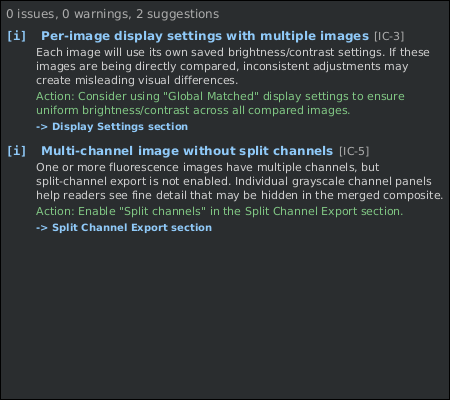
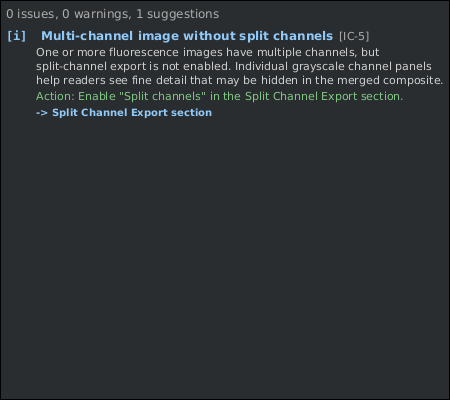
QuIET chapter: 1.3.1, review fixes, new Publication Advice screenshot
Version 1.3.1. Card names match the wizard; "QuIET renders" each panel; the
script exceptions are Panel / Montage, (Active Overlay) and Add to Workflow
(not "Preferences"); Copy Script also needs Advanced mode; the SVG cap counts
detections; the result folder opens by itself; export_info.txt contents as
written; the script rereads saved display settings; per-image display in
What to notice; QUAREP-LiMi checklist paper cited. With one image ticked the
advice is now one suggestion (IC-5): 1.3.1 recomputes it as the selection
changes, so the screenshot is retaken. Going-further bullet rewritten without
the unreleased Fiber Analysis maps.

Claude-Session: https://claude.ai/code/session_011vsVaz6bucybYzteLzjXpH

Changed region(s): [[0.0622, 0.06, 0.9956, 0.33], [0.0622, 0.36, 0.9956, 0.6], [0.0, 0.36, 0.0622, 0.39]]

diff --git a/docs/01-quiet-image-export.md b/docs/01-quiet-image-export.md
@@ -12,7 +12,7 @@ title: QuIET - QuPath Image Export Toolkit
 | | |
 |---|---|
 | **Repository** | [uw-loci/qupath-extension-image-export-toolkit](https://github.com/uw-loci/qupath-extension-image-export-toolkit) |
-| **Extension version** | 1.3.0 |
+| **Extension version** | 1.3.1 |
 | **License** | Apache-2.0 |
 | **Requires** | QuPath 0.7.0+, Java 21+ |
 | **Where to find it** | `Extensions > QuIET > Image Export...` and `Extensions > QuIET > Panel / Montage Export...` |
@@ -44,33 +44,42 @@ category, configure it, pick your images, and export.
 |---|---|---|
 | **Rendered** | The image as displayed, with overlays, scale bar, panel labels | Figures and collaborator review |
 | **Label / Mask** | Per-class segmentation masks | ML training targets, QC |
-| **Raw image data** | Pixel data at any downsample | Handing data to another tool |
-| **Tiled export (ML)** | Image + label tile pairs | Deep-learning frameworks |
-| **Object crops** | One small image per object | Cell-type classifier training |
+| **Raw Image Data** | Pixel data at any downsample | Handing data to another tool |
+| **Tiled Export (ML)** | Image + label tile pairs | Deep-learning frameworks |
+| **Object Crops (Classification)** | One small image per object | Cell-type classifier training |
 
 A sixth workflow, `Extensions > QuIET > Panel / Montage Export...`, is a separate menu item with
 its own wizard:
 select several project images, choose a *recipe* (saved settings for how a single image is
 exported), and lay them out into one grid figure, with captions, spacing and background color.
-QuPath renders every panel identically, so you do not assemble the figure by hand in
-another program.
+QuIET renders every panel with the same settings, so you do not assemble the figure by hand
+in another program.
 
 ## Two bonuses
 
-**Every export records a Groovy script.** Whatever you clicked in the wizard is emitted as a
-self-contained script you can save, version-control, re-run next year, or send to a
-collaborator who does not have QuIET installed. Save it from **Save Script...** on the wizard's last screen
-(in **Advanced** mode), or find it afterwards in `Automate > Show workflow command history`.
+**Every single-image export records a Groovy script.** Whatever you clicked in the wizard is
+emitted as a self-contained script you can save, version-control, re-run next year, or send to
+a collaborator who does not have QuIET installed. Save it from **Copy Script** or **Save
+Script...** on the wizard's last screen (in **Advanced** mode). While **Add to Workflow** on that
+screen is ticked (it is by default), the export is also recorded in
+`Automate > Show workflow command history`.
 
-The two exceptions: exports using the **active overlay**, which cannot be reproduced from a
-script because the classifier is ephemeral, and the case where you have turned script recording
-off in Preferences.
+Three exceptions:
+
+- A Panel / Montage export (step 5) records only its settings. To make the figure again, run the
+  export from the wizard.
+- A classifier chosen as **(Active Overlay)** is the viewer's live classifier, not one saved in
+  the project, so a script cannot load it.
+- Unticking **Add to Workflow** leaves the export out of the workflow history; **Copy Script**
+  and **Save Script...** still work.
 
 **QUAREP-LiMi guidance is in the dialog.** [QUAREP-LiMi](https://quarep.org/) is the
 community effort to define minimum reporting standards for light microscopy. The settings screen
 shows a guidance panel driven by your project's actual images, and the last screen has
-**Publication Advice** for the images you selected, before you export. The point is to catch "what magnification was that,
-and is there a scale bar?" *before* the figure goes into a manuscript, not during review.
+**Publication Advice** for the images you selected, before you export. It flags problems such
+as a missing scale bar or a missing pixel size before the figure goes into a manuscript. The
+checklist codes it shows (`IC-5`, `IA-1` ...) are the item numbers of the QUAREP-LiMi image
+publishing checklists ([Schmied et al., *Nature Methods*, 2024](https://doi.org/10.1038/s41592-023-01987-9)).
 
 > **Simple vs Advanced.** The navigation bar has a Simple/Advanced toggle; Simple is the
 > default and hides rarely-used controls. If a setting described here seems to be missing,
@@ -146,15 +155,16 @@ The numbers match the badges in the picture below the table.
 |---|---|---|
 | 1 | **Render Mode** | **Object Overlay**. It starts on **None (no overlay source)**, which exports a clean image with no objects drawn |
 | 2 | **Downsample** | **1** |
-| 3 | **Output Format** | Leave it. Ticking an overlay in the next step switches it from **PNG** to **SVG** by itself, so the outlines stay sharp at any zoom |
+| 3 | **Output Format** | Leave it. It reads **PNG** until you tick row 4, then changes to **SVG** by itself. If it shows another format, choose **SVG** |
 | 4 | **Include annotations** | Ticked. The ground-truth points are annotations, and this box starts unticked. **Include detections**, the cell outlines, is already ticked |
 | 5 | **Show scale bar** | Ticked |
 | 6 | **Preview Current Image** | Click it to check the result before exporting |
 
 <img src="../images/quiet/step2-settings-numbered.png" alt="The Configure Export screen with red numbered badges down the left edge: 1 Render Mode set to Object Overlay, 2 Downsample set to 1, 3 Output Format showing SVG, 4 Include annotations ticked with Include detections ticked below it, 5 Show scale bar ticked, 6 the Preview Current Image button. The QUAREP-LiMi Publication Guidelines panel runs down the right side" width="820">
 
-The **Object Overlays** and **Scale Bar** sections may be collapsed when you arrive.
-**Click a section's title** to open it.
+SVG keeps the scale bar and the ground-truth points as sharp vector shapes; the collapsed box
+below explains what happens to the cell outlines. The **Object Overlays** and **Scale Bar**
+sections may be collapsed when you arrive. **Click a section's title** to open it.
 
 **Click Preview Current Image.** A window opens with the image as it will be exported: cell
 outlines, a colored dot on each cell, and a `200 µm` scale bar in the lower right. The window
@@ -178,20 +188,23 @@ The panel down the right is general QUAREP-LiMi guidance for the kind of export 
 plus one line saying how many of your images it scanned and what type they are. Advice about
 the images you select comes at the next screen, under **Publication Advice**.
 
-SVG keeps outlines and the scale bar as vector shapes, but only up to 1000 objects. These
-images have about 1500 cells each, so QuIET draws the cells into the picture itself and keeps
-the scale bar as a vector.
+SVG keeps annotations and the scale bar as vector shapes, but keeps detections as vectors only
+up to 1000 of them. These images have about 1500 cells each, so QuIET draws the cell outlines
+into the picture itself; the ground-truth points (annotations) and the scale bar stay vector.
+
+The exported pixel size is the image's pixel size times the downsample: these images are
+0.5 µm per pixel, so downsample 4 would give 2 µm per pixel. `export_info.txt` records it.
 
 </details>
 
 #### 3.3 Choose one image and read the advice
 
-The wizard opens in **Simple** mode. **Save Script...**, which step 4 needs, only shows in
-**Advanced** mode.
+The wizard opens in **Simple** mode the first time. **Copy Script** and **Save Script...**,
+which step 4 needs, only show in **Advanced** mode.
 
 | # | Control | Do this |
 |---|---|---|
-| 1 | **Simple** / **Advanced** toggle | Click it so it reads **Advanced** |
+| 1 | **Simple** / **Advanced** toggle | If it reads **Simple**, click it so it reads **Advanced** |
 | 2 | **Deselect All** | Click it. Every image in the project starts ticked |
 | 3 | `tme_00.tif` | Tick it, and only it. The count beside **Deselect All** reads `1 images selected` |
 | 4 | **Copy Script** / **Save Script...** | Leave for step 4 |
@@ -204,19 +217,22 @@ The wizard opens in **Simple** mode. **Save Script...**, which step 4 needs, onl
 folder. Leave it.
 
 **Click Publication Advice [i].** A window lists what QuIET found in the images you
-selected, each item tagged with its QUAREP-LiMi checklist code. With the settings above you
-get two suggestions and no warnings. Remove the scale bar and an item about the missing scale
-bar appears.
+selected, each item tagged with its QUAREP-LiMi checklist code. With the settings above and
+one image ticked you get one suggestion and no warnings. Had **Show scale bar** been off, the
+list would also hold an item about the missing scale bar. With a second image ticked, a
+suggestion about per-image display settings (`IC-3`) joins it, because the advice follows your
+selection.
 
-<img src="../images/quiet/publication-advice.png" alt="The Publication Advice window: 0 issues, 0 warnings, 2 suggestions. The first, IC-3, is about per-image display settings and suggests Global Matched. The second, IC-5, is about a multi-channel image exported without split channels and suggests enabling Split channels" width="450">
+<img src="../images/quiet/publication-advice.png" alt="The Publication Advice window: 0 issues, 0 warnings, 1 suggestions. The suggestion, IC-5, Multi-channel image without split channels, says individual grayscale channel panels help readers see detail hidden in the merged composite, and its action is to enable Split channels in the Split Channel Export section" width="450">
 
 **Close the advice window**, then **click Export.** In a few seconds the bottom of the wizard
-reads `Exported 1 images.`, and **Open Result Folder** and **Close** appear beside **Export**.
-Leave the wizard open for step 4.
+reads `Exported 1 images.`, the result folder opens in your file browser, and **Open Result
+Folder** and **Close** appear beside **Export**. Leave the wizard open for step 4.
 
 #### 3.4 Check the result
 
-**Click Open Result Folder.** It holds two files:
+**Look in the folder that opened** (or click **Open Result Folder** if none did). It holds two
+files:
 
 ```
 export_info.txt
@@ -226,8 +242,11 @@ tme_00.svg
 **Open `tme_00.svg`** in a web browser. It matches the preview. Check that the scale bar is
 legible at the size you would print it.
 
-`export_info.txt` records the settings: category, downsample, pixel size (0.5 µm per pixel)
-and every channel's name and display color, ready for a figure legend.
+**Open `export_info.txt`.** It names the QuIET and QuPath versions, then lists the export
+category, the downsample, every channel's name and color, and the pixel size
+(`Pixel Size: 0.5 um/px (downsample 1x from 0.5 um/px)`), ready for a figure legend. It does not
+hold the brightness and contrast used: with the default display settings it says
+`Per-image (varies -- see QuPath project)`.
 
 ### 4. The reproducibility half
 
@@ -254,11 +273,16 @@ The output pane at the bottom lists each image as it goes, then
 **Open the `exports/rendered` folder again.** Beside `tme_00.svg` there are now eight PNGs,
 `tme_00.png` to `tme_07.png`, all rendered with the settings you chose in step 3.
 
-The script differs from the wizard in two ways, both written at the top of the script:
+The script differs from the wizard in three ways; the first two are written at the top of the
+script:
 
 - **It runs on every image in the project**, not only the ones you ticked.
 - **It writes PNG, not SVG.** SVG export needs QuIET installed; the script runs on any
   QuPath 0.7 without it, so you can send it to a collaborator.
+- **It reads each image's saved brightness and contrast when it runs.** If you change an
+  image's display and save it, a re-run uses the new settings. To pin them, choose
+  **Global Matched** or **Current Viewer Settings** under **Display Settings** (Advanced mode)
+  before copying the script.
 
 The **CONFIGURATION** block at the top holds every setting as a line you can edit, for
 example `def downsample = 1.0`, before running it again.
@@ -311,9 +335,9 @@ drag one panel onto another to swap them.
 
 #### 5.4 Open the figure
 
-**Click Open Result Folder.** `exports/panels` holds `panel_figure.png` and
-`panel_figure_info.txt`, which lists the layout, the recipe and the four source images in
-order.
+**Look in the folder that opened** (or click **Open Result Folder**). `exports/panels` holds
+`panel_figure.png` and `panel_figure_info.txt`, which lists the QuIET version, the layout, the
+recipe and the four source images in order.
 
 **Open `panel_figure.png`.** It looks like this: four panels drawn with the same recipe,
 lettered A to D, each with its own scale bar and its filename underneath.
@@ -322,8 +346,10 @@ lettered A to D, each with its own scale bar and its filename underneath.
 
 ### What to notice
 
-- Every panel in the montage got the same rendering, downsample and overlays, so differences
-  between panels come from the images and not from how each one was exported.
+- Every panel in the montage got the same recipe: the same downsample, overlays and scale bar.
+  Brightness and contrast are each image's own saved settings unless **Display Settings** is
+  **Global Matched** (Advanced mode); use Global Matched for a figure where readers compare
+  brightness between panels.
 - Publication Advice never blocks an export. It lists what a reviewer may ask about.
 - **Label / Mask** (the second category on the wizard's first screen) exports masks from the
   same annotations, for training a model, with no extra annotation work. Try it if you have
@@ -333,17 +359,23 @@ lettered A to D, each with its own scale bar and its filename underneath.
 
 ## Going further
 
-- Object Crops is the fastest route from "I have classified cells" to "I have a labeled
-  image dataset for a cell-type classifier."
+- Object Crops writes one small image per object, in a folder per class, ready for training a
+  cell-type classifier.
 - Tiled export writes image and label-mask tile pairs at a fixed tile size, for training a
   model outside QuPath (StarDist, Cellpose and similar tools). The
   [DL Pixel Classifier](02-dl-pixel-classifier.md) does not need it: it trains directly from
   the annotations in your QuPath project.
-- **Heatmaps on one scale.** Render Mode **Density / Map Overlay** draws a map over each
-  image: a QuPath density map, or a map file another tool wrote for each image (for example
-  Fiber Analysis's collagen density maps). Set **Color Range** to **Shared** or **Fixed** so
-  that one color means the same value in every image; the default stretches each image to
-  its own range, which makes images look alike when they are not.
+- **Maps on one color scale.** Render Mode **Density / Map Overlay** colors a map over each
+  image. In the **Overlay Source** section, **Map Source** chooses a density map saved in the
+  project (made with `Analyze > Density maps > Create density map...`) or a map file per image
+  written by another program, such as a probability map. The default **Color Range**, **Each
+  image: its own min to max**, stretches every image to its own range, so the same color means
+  different values in different images. Choose **Shared: percentiles of all exported images**
+  or **Fixed: the same values for every image** to put every image on one scale, and set
+  **Overlay Opacity** to 1 so the colors match the color scale bar. The range used is written
+  to `export_info.txt`. The
+  [repository README](https://github.com/uw-loci/qupath-extension-image-export-toolkit#readme) explains
+  the details, including how to find each image's map file.
 
 **Full documentation:** the
 [repository README](https://github.com/uw-loci/qupath-extension-image-export-toolkit#readme).
